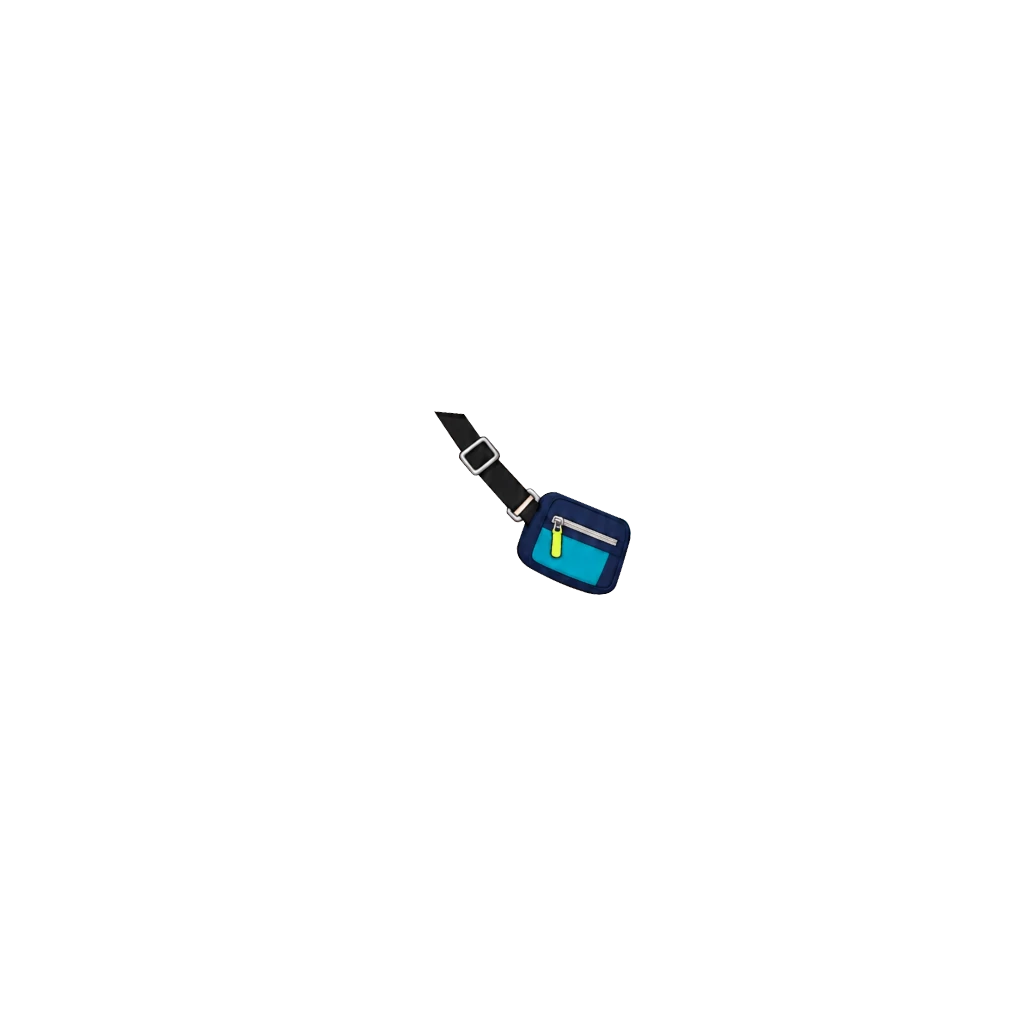
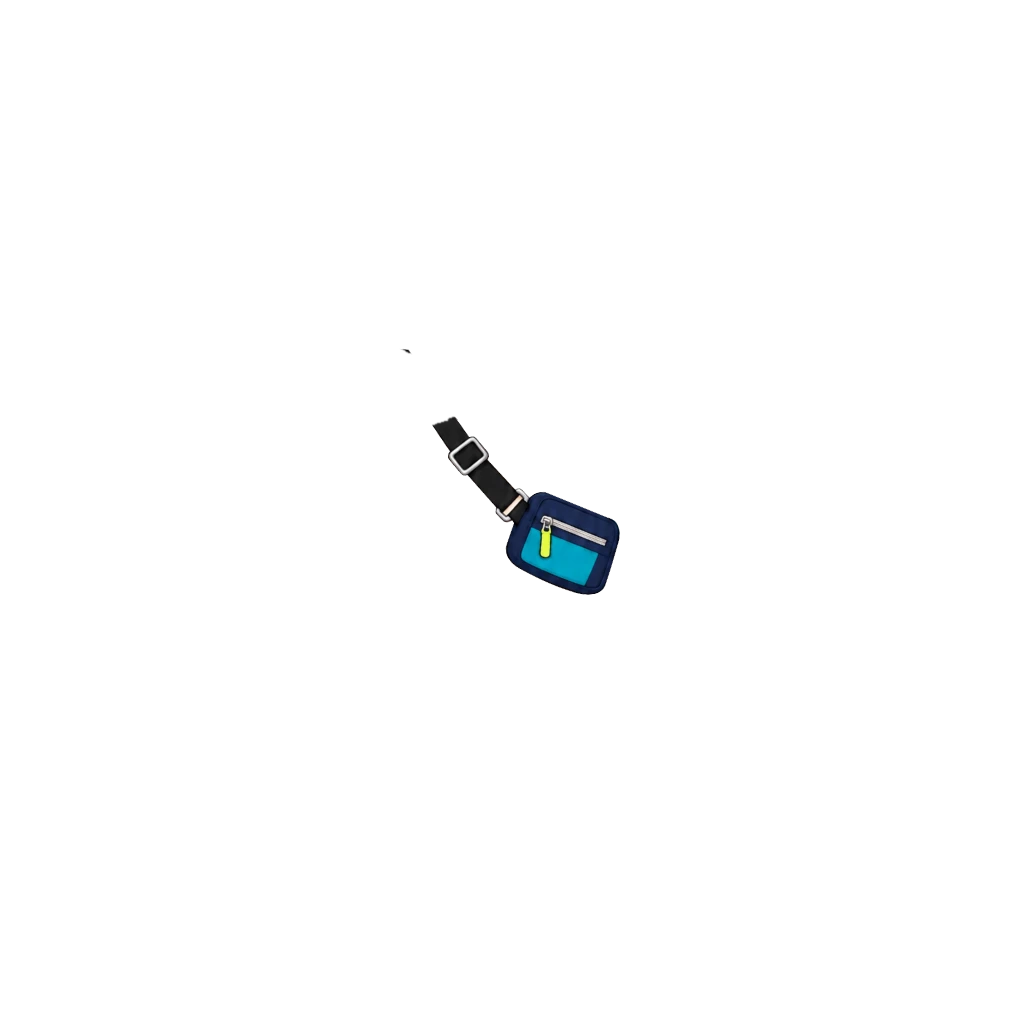
번개 크로스백: 끈 늘린 원화로 교체, 옷마다 어깨선에 맞춰 자름 (#1002)
번개 스케이터 외 옷은 가방을 번개 스케이터와 같은 자리에 두고, 길어진 끈을 그 옷의 어깨선에서 잘라 옷별 그림(topVariant)으로 넣었다.

Claude-Session: https://claude.ai/code/session_018maNuYqDfFyRSe9uKpZhPR

Changed region(s): [[0.4062, 0.4062, 0.625, 0.5938]]

diff --git a/src/data/avatarEquipment.js b/src/data/avatarEquipment.js
@@ -525,8 +525,10 @@ export const AVATAR_CATALOG = [
      [2026-10-11] 번개 스케이터만 — 끈 윗끝을 후드 아래 접힌 선(425,428)→(475,430)에서 잘라 후드 밑에서 나오게, 그 선을 후드 선 색으로 이어 그림(topVariant).
      다른 옷은 후드가 없어 자르면 끈이 떠 보여 그대로.
      [2026-10-11] 번개 스케이터 — 가방 전체 왼쪽으로 6(끈 윗끝 (446,418)·지퍼 고리 (550,543)), 다시 후드 아래 선에서 자름(?v=2).
-     [2026-10-11] 왼쪽으로 5 더(끈 윗끝 (441,418)·지퍼 고리 (545,543)), 후드 아래 선에서 다시 자름(?v=3). */
-  { id: "back_cross_boy", slot: "back", label: "번개 크로스백", emoji: "⚡", price:DECOR_PRICE.rare, rarity: "rare", theme: "common", forGender: "boy", z: 38, img: "assets/avatar/back/cross-bag-boy.webp", topVariant: { top_board_boy: { img: "assets/avatar/back/cross-bag-board-boy.webp?v=3" } }, thumb: "assets/avatar/thumb/back_cross_boy.webp" },
+     [2026-10-11] 왼쪽으로 5 더(끈 윗끝 (441,418)·지퍼 고리 (545,543)), 후드 아래 선에서 다시 자름(?v=3).
+     [2026-10-11] 끈을 늘린 새 원화(314×387, 예전 원화를 (60,110) 옮긴 것과 같은 그림+긴 끈)로 교체 — 번개 스케이터 외 옷은 가방을 번개 스케이터와 같은 자리
+     (끈 윗끝 기준 (441,418)·지퍼 고리 (545,543), 배율 0.723·-6.0°)에 두고, 끈은 그 옷의 어깨선(몸+옷 윤곽 3px 안쪽)에서 잘랐다. 옷마다 topVariant, 맨몸·그 밖은 기본 img(?v=2). */
+  { id: "back_cross_boy", slot: "back", label: "번개 크로스백", emoji: "⚡", price:DECOR_PRICE.rare, rarity: "rare", theme: "common", forGender: "boy", z: 38, img: "assets/avatar/back/cross-bag-boy.webp?v=2", topVariant: { top_board_boy: { img: "assets/avatar/back/cross-bag-board-boy.webp?v=3" }, top_tee_white: { img: "assets/avatar/back/cross-bag-tee-boy.webp" }, top_vest: { img: "assets/avatar/back/cross-bag-vest-boy.webp" }, top_pirate: { img: "assets/avatar/back/cross-bag-pirate-boy.webp" }, top_hoodie_mint: { img: "assets/avatar/back/cross-bag-hoodie-boy.webp" }, top_beach_boy: { img: "assets/avatar/back/cross-bag-beach-boy.webp" }, top_acorn: { img: "assets/avatar/back/cross-bag-acorn-boy.webp" }, top_space: { img: "assets/avatar/back/cross-bag-space-boy.webp" } }, thumb: "assets/avatar/thumb/back_cross_boy.webp" },
   /* 들꽃 크로스백 [2026-10-05] — 여아. 갈색 가죽 크로스백(흰 들꽃 장식), 사용자 원화 230×343. 들꽃 탐험가 옷과 짝.
      사용자 배치 참고 그림(얼굴 매칭 0.915)에 맞춤 — 가방 몸통 매칭(0.986) 배율 0.73·-1° 회전, 끈·가방 이음매 (526,568).
      끈은 가방에서 떼어 옷깃 아래 끝(463,421)까지 늘이고(×0.998) y419 위는 지워 옷깃 밑으로 들어가 보이게.

diff --git a/art-src/README.md b/art-src/README.md
@@ -646,4 +646,4 @@ bbox로 여백만 잘라내고 배포본은 높이 480px로 축소했다(전부 
 | sky-bag-girl-src.webp | **하늘 가방 원화 여아 (사용자 원화 2026-10-11)** — 크림색 편지 봉투 가방·분홍 하트·하늘색 끈 한 장, 파랑 우편부와 짝. 참고 그림(얼굴 매칭 0.917)대로 끈 윗끝 (442,384)·하트 (594,573) 두 점 맞춤 배율 0.730·-0.3°, z 38. 탑재 상자 (436,382,630,612). 들꽃 탐험가만 가방 왼쪽 7(크기 그대로 끈 윗끝 중심 회전, 하트 (587,578), sky-bag-vest-girl.webp). 상점 그림은 원화를 세로 160px 로 | avatar/back/sky-bag-girl.webp · thumb/back_sky_girl.webp |
 | rainbow-umbrella-girl-src.webp | **무지개 우산 원화 여아 (사용자 원화 2026-10-11)** — 접은 무지개 우산·분홍 손잡이·청록 끈 88×555, 노란 우비룩과 짝. 참고 그림(얼굴 매칭 0.951)대로 왼손(화면 기준)에 — 배율 0.62·원점 (353,600), 손잡이 고리는 손 안, 겹치는 손을 위에 다시 그림, z 48. 이후 사용자 배치대로 고리가 손가락에 걸리게 원점 (364,628), 고리 끝은 지움(?v=2). → 사용자가 고른 후보로 고리 끝은 남김(?v=3). 탑재 상자 (353,596,408,944). 상점 그림은 원화를 세로 160px 로 | avatar/hand/rainbow-umbrella-girl.webp · thumb/hand_umbrella_girl.webp |
 | (원본 같음) rainbow-umbrella·cookie-bag *-src.webp | **달빛 마법사 전용 (2026-10-11)** — 마법사 옷 그림이 손을 따로 그려(왼쪽 18, 치마를 쥔 모양) 몸 그림 손으로 덮으면 잘려 보였다. 옷 그림의 손(피부 덩어리+윤곽)으로 덮고 우산·쿠키 가방을 왼쪽 18에 둠 | avatar/hand/rainbow-umbrella-magic-girl.webp · avatar/back/cookie-bag-magic-girl.webp |
-| cross-bag-boy-src.webp | **번개 크로스백 원화 남아 (사용자 원화 2026-10-11)** — 남색·청록 크로스백·노란 지퍼 고리·검정 끈 한 장, 번개 스케이터와 짝. 참고 그림(얼굴 매칭 0.965)대로 끈 윗끝 (452,418)·지퍼 고리 (556,543) 두 점 맞춤 배율 0.723·-6.0°, z 38. 탑재 상자 (434,411,631,595). 번개 스케이터만 끈 윗끝을 후드 아래 선에서 자름(cross-bag-board-boy.webp). 이후 왼쪽으로 6 옮겨 다시 자름(?v=2). 왼쪽으로 5 더(?v=3). 상점 그림은 원화를 세로 160px 로 | avatar/back/cross-bag-boy.webp · thumb/back_cross_boy.webp |
+| cross-bag-boy-src.webp | **번개 크로스백 원화 남아 (사용자 원화 2026-10-11, 끈 늘린 판으로 교체)** — 남색·청록 크로스백·노란 지퍼 고리·긴 검정 끈 314×387, 번개 스케이터와 짝. 모든 옷에서 가방은 번개 스케이터와 같은 자리(배율 0.723·-6.0°, 지퍼 고리 (545,543)). 번개 스케이터는 끈 윗끝을 후드 아래 선에서, 나머지 옷은 그 옷의 어깨선(몸+옷 윤곽 3px 안쪽)에서 자름. 상점 그림은 이전 그대로 | avatar/back/cross-bag-boy.webp(맨몸) · cross-bag-{board,tee,vest,pirate,hoodie,beach,acorn,space}-boy.webp |
